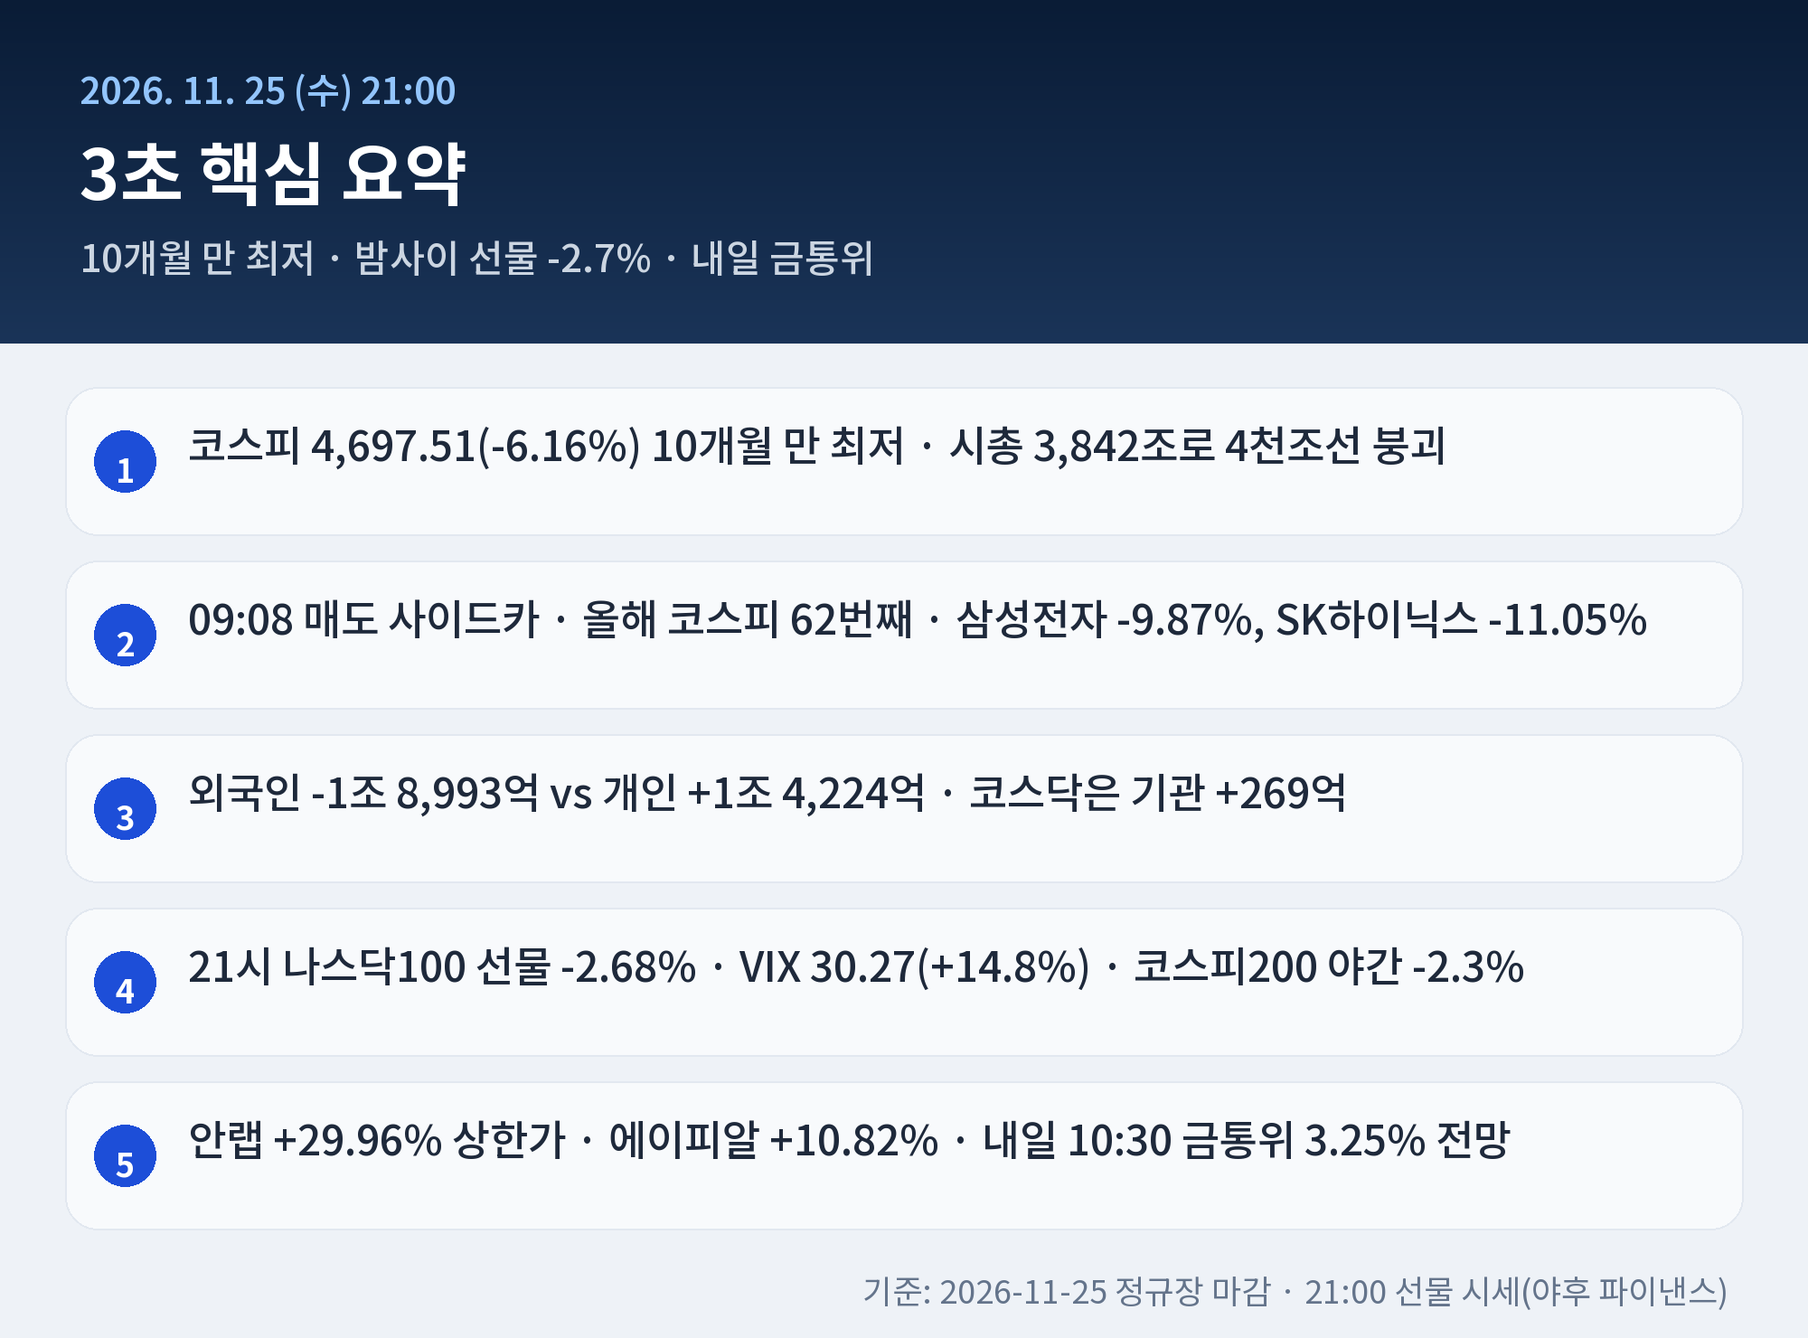
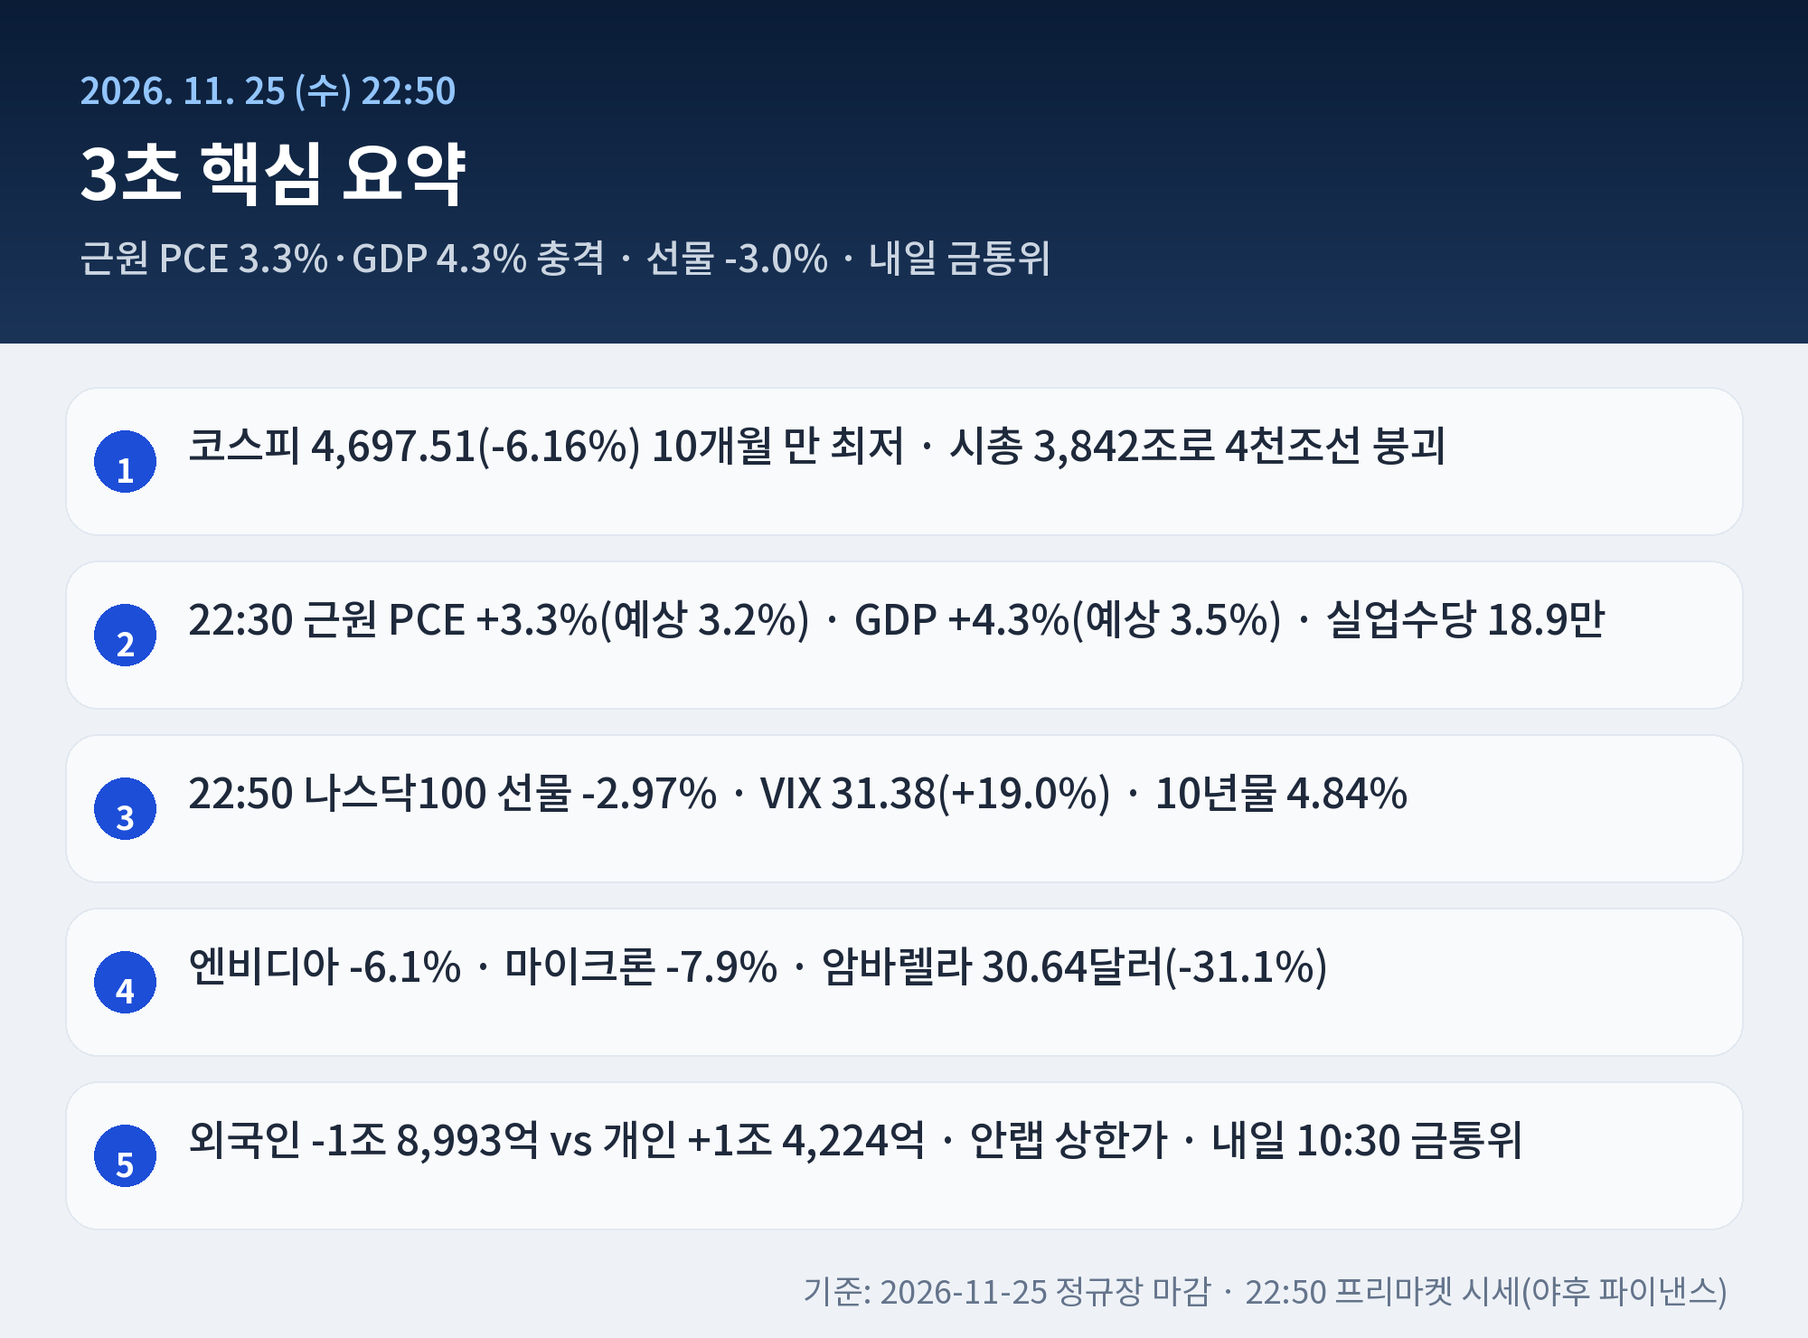
2026-11-25 21:00 최신화 — 근원 PCE·GDP 반영 카드 2종 + 네이버 붙여넣기 페이지

diff --git a/naver-temp/2026-11-25-2100.html b/naver-temp/2026-11-25-2100.html
@@ -1,0 +1,71 @@
+<!DOCTYPE html><html lang="ko"><head><meta charset="utf-8"><meta name="viewport" content="width=device-width, initial-scale=1"><title>코스피 급락 이유 4,697 마감 | 근원 PCE 3.3%·GDP 4.3% 충격, 나스닥 선물 -3.0%</title></head><body style="margin:0; padding:24px 16px; background:#ffffff; font-family:'NanumGothic','나눔고딕','Malgun Gothic',sans-serif;"><div style="max-width:760px; margin:0 auto;"><p style="margin:0 0 20px 0; text-align:center; font-size:15px; line-height:2.0; color:#333333;"><span style="background-color:#fff8b2; font-weight:bold;">장이 끝나고 여섯 시간이 지난 밤에 숫자가 한 번 더 바뀌었어요.</span></p>
+<p style="margin:0 0 20px 0; text-align:center; font-size:15px; line-height:2.0; color:#333333;">오늘 코스피는 4,697.51에서 멈췄고, 22시 30분에 나온 미국 10월 근원 PCE는 예상을 넘었어요.</p>
+<p style="margin:0 0 20px 0; text-align:center; font-size:15px; line-height:2.0; color:#333333;">그 직후 나스닥100 선물은 <b>-3%</b>까지 밀렸고, 프리마켓 반도체는 6~8% 빠졌어요.</p>
+<p style="margin:0 0 26px 0; text-align:center;"><img src="https://raw.githubusercontent.com/Monotony0315/blog-assets/main/2026-11-25/images/20261125-news2100-cover.jpg" width="760" style="max-width:100%; border-radius:10px;" /></p>
+<p style="margin:0 0 20px 0; text-align:center; font-size:15px; line-height:2.0; color:#333333;">하루의 궤적과 22시 30분 지표가 바꾼 것, 그리고 내일 10시 30분 금통위 순서로 정리해볼게요.</p>
+<p style="margin:34px 0 18px 0; text-align:center; font-size:17px; font-weight:bold; color:#1e3a5f;">✅ 3초 핵심 요약</p>
+<p style="margin:0 0 20px 0; text-align:left; font-size:15px; line-height:2.0; color:#333333;">1. 코스피 <span style="background-color:#fff8b2; font-weight:bold;">4,697.51(-6.16%)</span> · 10개월 만 최저, 시총 3,842조로 4천조선 붕괴</p>
+<p style="margin:0 0 20px 0; text-align:left; font-size:15px; line-height:2.0; color:#333333;">2. 09:08 매도 사이드카 · 삼성전자 <b>-9.87%</b> · 외국인 -1조 8,993억 vs 개인 +1조 4,224억</p>
+<p style="margin:0 0 20px 0; text-align:left; font-size:15px; line-height:2.0; color:#333333;">3. 22:30 근원 PCE <span style="background-color:#fdd5f5; font-weight:bold;">+3.3%</span>(예상 3.2%) · GDP +4.3%(예상 3.5%) · 실업수당 18.9만</p>
+<p style="margin:0 0 20px 0; text-align:left; font-size:15px; line-height:2.0; color:#333333;">4. 22:50 나스닥100 선물 <span style="background-color:#bdfbfa; font-weight:bold;">-2.97%</span> · VIX 31.4(+19.0%) · 엔비디아 -6.1%</p>
+<p style="margin:0 0 20px 0; text-align:left; font-size:15px; line-height:2.0; color:#333333;">5. 암바렐라 <span style="background-color:#ffcdc0; font-weight:bold;">-31.1%</span> · 내일 10:30 금통위 3.25% 인상 전망</p>
+<p style="margin:0 0 26px 0; text-align:center;"><img src="https://raw.githubusercontent.com/Monotony0315/blog-assets/main/2026-11-25/images/20261125-news2100-card-summary.png" width="760" style="max-width:100%; border-radius:10px;" /></p>
+<p style="margin:34px 0 18px 0; text-align:center; font-size:17px; font-weight:bold; color:#1e3a5f;">❝ 01 하루를 한 장으로 — 4,809에서 열고 4,672까지</p>
+<p style="margin:0 0 20px 0; text-align:center; font-size:15px; line-height:2.0; color:#333333;">시가 <b>4,809.00</b>이 사실상 그날의 고점이었어요. 09시 08분에 매도 사이드카가 걸렸고, 장중 저점은 4,672.55까지 내려갔어요.</p>
+<p style="margin:0 0 20px 0; text-align:left; font-size:15px; line-height:2.0; color:#333333;">✔ 시가 4,809.00 · 저가 4,672.55 · 종가 <span style="background-color:#fff8b2; font-weight:bold;">4,697.51</span></p>
+<p style="margin:0 0 20px 0; text-align:left; font-size:15px; line-height:2.0; color:#333333;">✔ 코스피 시총 3,842조 9,473억 원 · 삼성전자·SK하이닉스 비중 <b>44.85%</b></p>
+<p style="margin:0 0 20px 0; text-align:left; font-size:15px; line-height:2.0; color:#333333;">✔ 코스닥 650.64(-2.29%) · 원·달러 1,343.0원 · 올해 사이드카 62번</p>
+<p style="margin:0 0 20px 0; text-align:center; font-size:15px; line-height:2.0; color:#333333;">종가 기준으로는 1월 13일(4,692.64) 이후 가장 낮은 자리예요. 같은 시간 대만 증시도 장중 8% 넘게 빠지면서 아시아 반도체가 함께 흔들렸어요.</p>
+<p style="margin:20px 0 26px 0; text-align:center; font-size:15px; font-weight:bold; line-height:1.9; color:#334155;"><span style="background-color:#fff8b2; font-weight:bold;">지수는 제자리로 돌아왔지만 진폭은 오히려 커졌어요.</span> 사이드카가 반복되는 장에서는 방향보다 폭을 먼저 봐요.</p>
+<p style="margin:0 0 26px 0; text-align:center;"><img src="https://raw.githubusercontent.com/Monotony0315/blog-assets/main/2026-11-25/images/20261125-news2100-card-table.png" width="760" style="max-width:100%; border-radius:10px;" /></p>
+<p style="margin:34px 0 18px 0; text-align:center; font-size:17px; font-weight:bold; color:#1e3a5f;">❝ 02 급락 이유 3가지 — 목표가, 자금줄, 그리고 관세</p>
+<p style="margin:0 0 20px 0; text-align:left; font-size:15px; line-height:2.0; color:#333333;">1. <b>메모리 목표가</b> — BNP파리바가 마이크론 목표주가를 <span style="background-color:#fdd5f5; font-weight:bold;">1,700달러에서 775달러</span>로 낮췄어요.</p>
+<p style="margin:0 0 20px 0; text-align:left; font-size:15px; line-height:2.0; color:#333333;">✔ 엔비디아 -5.86% · 마이크론 -11.01% · AMD -8.86% · SOX -7.88%</p>
+<p style="margin:0 0 20px 0; text-align:left; font-size:15px; line-height:2.0; color:#333333;">2. <b>AI 자금줄</b> — 앤트로픽이 81.91달러로 공모가 83달러를 밑돌았고, 코어위브·오라클 CDS 프리미엄이 다시 올랐어요.</p>
+<p style="margin:0 0 20px 0; text-align:left; font-size:15px; line-height:2.0; color:#333333;">3. <b>관세 확정</b> — 22시 19분 USTR이 한국 포함 14개 경제권의 과잉생산 관세를 예고했어요. 한국은 <span style="background-color:#bdfbfa; font-weight:bold;">15% 상한 유지</span>, 중국은 20% 추가로 최대 40%까지 열어뒀어요.</p>
+<p style="margin:0 0 20px 0; text-align:center; font-size:15px; line-height:2.0; color:#333333;">여기에 12월 FOMC 인상 경계까지 겹쳤고, 오늘 밤 지표가 그 무게를 더했어요. 반대편 숫자도 봤어요. 델의 AI 백로그는 <span style="background-color:#c2f4db; font-weight:bold;">1,323억 달러</span>로 사상 최대예요.</p>
+<p style="margin:34px 0 18px 0; text-align:center; font-size:17px; font-weight:bold; color:#1e3a5f;">❝ 03 돈은 어디로 갔나 — 상한가 간 세 갈래</p>
+<p style="margin:0 0 20px 0; text-align:left; font-size:15px; line-height:2.0; color:#333333;">✔ 외국인 <span style="background-color:#ffcdc0; font-weight:bold;">-1조 8,993억</span> · 개인 +1조 4,224억 · 기관 +1억</p>
+<p style="margin:0 0 20px 0; text-align:center; font-size:15px; line-height:2.0; color:#333333;">외국인은 삼성전자를 1조 121억, SK하이닉스를 5,621억 팔았어요. 반대로 코스닥은 기관이 269억 순매수로 방향이 달랐고요.</p>
+<p style="margin:0 0 20px 0; text-align:left; font-size:15px; line-height:2.0; color:#333333;">✔ 안랩 <span style="background-color:#c2f4db; font-weight:bold;">157,900원(+29.96% 상한가)</span> · 파수AI +29.95% · 지니언스 +18.79%</p>
+<p style="margin:0 0 20px 0; text-align:left; font-size:15px; line-height:2.0; color:#333333;">✔ 에이피알 292,000원(+10.82%) · 알테오젠 169,600원(+6.20%) · 삼성바이오로직스 +5.66%</p>
+<p style="margin:0 0 20px 0; text-align:center; font-size:15px; line-height:2.0; color:#333333;">미 CIA·국가정보국 해킹 보도와 저축은행 552명 정보 유출이 보안주를 밀어올렸고, 10월 화장품 수출 57% 증가가 화장품주를 받쳐줬어요. 지수가 빠진 날에도 숫자가 있는 곳에는 돈이 남았어요.</p>
+<p style="margin:34px 0 18px 0; text-align:center; font-size:17px; font-weight:bold; color:#1e3a5f;">❝ 04 22시 30분 지표 — 근원 PCE 3.3%, GDP 4.3%</p>
+<p style="margin:0 0 20px 0; text-align:center; font-size:15px; line-height:2.0; color:#333333;">오늘 하루보다 큰 재료는 장이 끝난 뒤에 나왔어요.</p>
+<p style="margin:0 0 20px 0; text-align:left; font-size:15px; line-height:2.0; color:#333333;">✔ 10월 근원 PCE 전년비 <span style="background-color:#fdd5f5; font-weight:bold;">+3.3%</span>(예상 +3.2%·이전 +3.1%) · 전월비 +0.3%(부합)</p>
+<p style="margin:0 0 20px 0; text-align:left; font-size:15px; line-height:2.0; color:#333333;">✔ 10월 헤드라인 PCE +3.8%(예상 부합) · 3분기 GDP 2차 <span style="background-color:#c2f4db; font-weight:bold;">+4.3%</span>(예상 3.5%·속보 3.4%)</p>
+<p style="margin:0 0 20px 0; text-align:left; font-size:15px; line-height:2.0; color:#333333;">✔ 신규 실업수당 18만 9,000건(예상 20만) · 10월 소비 +0.3% · 소득 +0.7%</p>
+<p style="margin:0 0 20px 0; text-align:center; font-size:15px; line-height:2.0; color:#333333;">성장은 예상을 크게 웃돌고 고용은 타이트한데, 근원 물가가 다시 3.3%로 올라왔어요. 시장이 가장 싫어하는 조합 그대로예요.</p>
+<p style="margin:0 0 20px 0; text-align:center; font-size:15px; line-height:2.0; color:#333333;">다만 전월 대비 근원 PCE는 +0.3%로 예상과 같았어요. 전년 대비 숫자 하나만으로 물가가 다시 가속한다고 단정하기는 이르죠. 다음 지표에서 고용을 지키면서 월간 물가 상승률만 둔화되는 흐름이 가장 이상적이에요.</p>
+<p style="margin:0 0 20px 0; text-align:center; font-size:15px; line-height:2.0; color:#333333;">12월 8~9일 FOMC 25bp 인상은 시장이 사실상 다 반영했고, 미국 10년물은 4.84%까지 올라 다시 5%가 시야에 들어왔어요. 금리가 오르면 부담은 할인율이 큰 반도체와 AI 하드웨어부터 와요.</p>
+<p style="margin:0 0 20px 0; text-align:left; font-size:15px; line-height:2.0; color:#333333;">✔ 실업수당 4주 평균 19만 6,000건 · 연속수당 169만 7,000건 · 저축률 4.1%</p>
+<p style="margin:34px 0 18px 0; text-align:center; font-size:17px; font-weight:bold; color:#1e3a5f;">❝ 05 밤사이 시장 — 선물 -3%, 암바렐라 -31%</p>
+<p style="margin:0 0 20px 0; text-align:left; font-size:15px; line-height:2.0; color:#333333;">✔ 나스닥100 선물 25,495(<b>-2.97%</b>) · S&P500 선물 7,074(-1.98%) · VIX <span style="background-color:#fdd5f5; font-weight:bold;">31.38(+19.0%)</span></p>
+<p style="margin:0 0 20px 0; text-align:left; font-size:15px; line-height:2.0; color:#333333;">✔ 엔비디아 145.90달러(-6.1%) · 마이크론 579.78달러(-7.9%) · AMD 385.31달러(-6.8%) · 앤트로픽 78.03달러(-4.7%)</p>
+<p style="margin:0 0 20px 0; text-align:center; font-size:15px; line-height:2.0; color:#333333;">오늘 밤 가장 센 숫자는 암바렐라였어요. 4분기 가이던스가 7,000만~7,500만 달러로, 직전 분기 1억 1,520만 달러에서 35% 넘게 줄어드는 숫자예요. DRAM 가격 상승과 공급 부족 때문에 고객사들이 주문을 미루거나 취소했고, 모건스탠리는 목표가를 70달러에서 42달러로 깎았어요. 주가는 <span style="background-color:#ffcdc0; font-weight:bold;">30.64달러(-31.1%)</span>예요.</p>
+<p style="margin:0 0 20px 0; text-align:center; font-size:15px; line-height:2.0; color:#333333;">델은 매출 549억 달러(+103%)로 사상 최대를 냈는데도 마진 우려로 6%대 약세이고, HPE는 메모리 부족이 2028년까지 이어진다고 경고했어요. 같은 뉴스가 누구에게는 수익, 누구에게는 원가예요.</p>
+<p style="margin:20px 0 26px 0; text-align:center; font-size:15px; font-weight:bold; line-height:1.9; color:#334155;">선물 -3%, VIX 31.4는 오늘 마감보다 더 나쁜 밤이에요. <span style="background-color:#fff8b2; font-weight:bold;">내일은 지수보다 반도체 수급과 환율</span>에서 먼저 답이 나올 거예요.</p>
+<p style="margin:34px 0 18px 0; text-align:center; font-size:17px; font-weight:bold; color:#1e3a5f;">❝ 06 AI 트렌드 — 서울을 생성하는 모델</p>
+<p style="margin:0 0 20px 0; text-align:left; font-size:15px; line-height:2.0; color:#333333;">✔ 네이버 <b>Seoul World Model</b> — 거리뷰 44만 장 학습, 경로와 날씨를 넣으면 주행 영상이 나와요. 코드는 Apache 2.0이에요.</p>
+<p style="margin:0 0 20px 0; text-align:left; font-size:15px; line-height:2.0; color:#333333;">✔ 구글 딥마인드 Gemini 4 에이전트 팀 — 양자 알고리즘 계산비 <span style="background-color:#bdfbfa; font-weight:bold;">최대 290배 절감</span>과 수학적 검증을 함께 내놨어요.</p>
+<p style="margin:0 0 20px 0; text-align:left; font-size:15px; line-height:2.0; color:#333333;">✔ <b>T3 Code 프라이버시 논란</b> — 텔레메트리 기본 켜짐, 홈페이지의 '텔레메트리 없음' 문구 삭제 지적이에요. 오늘 보안주 상한가와 같은 뿌리예요.</p>
+<p style="margin:34px 0 18px 0; text-align:center; font-size:17px; font-weight:bold; color:#1e3a5f;">❝ 07 내일 체크리스트 — 10시 30분 금통위</p>
+<p style="margin:0 0 20px 0; text-align:left; font-size:15px; line-height:2.0; color:#333333;">✔ 내일 10:30 한은 금통위 <span style="background-color:#fff8b2; font-weight:bold;">3.00% → 3.25% 인상 컨센서스</span> · 11:10 기자간담회 · 13:30 수정 경제전망</p>
+<p style="margin:0 0 20px 0; text-align:left; font-size:15px; line-height:2.0; color:#333333;">✔ 26일 미 추수감사절 휴장 · 27일 조기 폐장(한국 28일 03:00) · 12/3 젠슨 황 상원 청문회</p>
+<p style="margin:0 0 20px 0; text-align:left; font-size:15px; line-height:2.0; color:#333333;">✔ 27일 삼성전자 배당금 지급 — 외국인 역송금이 몰리면 환율이 다시 흔들려요</p>
+<p style="margin:0 0 20px 0; text-align:center; font-size:15px; line-height:2.0; color:#333333;">미국이 물가 때문에 금리를 못 내리는 상황에서 한은이 먼저 올리면 원화는 버티지만, 외국인에게는 매도 이유가 하나 더 생겨요. 내일 10시 30분 결정문과 11시 10분 기자간담회의 '추가 인상' 문구를 먼저 보세요.</p>
+<p style="margin:0 0 20px 0; text-align:center; font-size:15px; line-height:2.0; color:#333333;">반도체 반등 조건은 더 까다로워졌어요. 미국 <span style="background-color:#bdfbfa; font-weight:bold;">2년물 금리가 안정</span>되는 가운데 기업 이익 전망이 유지되면 반등 여건이 열리지만, 금리 상승과 이익 전망 하향이 겹치면 주가에는 이중 부담이 돼요.</p>
+<p style="margin:0 0 20px 0; text-align:center; font-size:15px; line-height:2.0; color:#333333;">오늘 마감표와 22시 30분 지표, 밤사이 선물 숫자까지 제가 직접 대조했어요. 도움이 되셨다면 이웃 추가와 공감 부탁드려요.</p>
+<p style="margin:34px 0 18px 0; text-align:center; font-size:17px; font-weight:bold; color:#1e3a5f;">❞ 참고자료</p>
+<p style="margin:0 0 8px 0; text-align:left; font-size:14px; line-height:1.9;"><a href="https://www.cnbc.com/2026/11/25/pce-inflation-report-october-2026.html" style="color:#2b6cb0; text-decoration:underline;">CNBC — 10월 PCE 3.8%·근원 3.3%로 예상 상회</a></p>
+<p style="margin:0 0 8px 0; text-align:left; font-size:14px; line-height:1.9;"><a href="https://www.bea.gov/news/2026/gdp-second-estimate-and-corporate-profits-3rd-quarter-2026" style="color:#2b6cb0; text-decoration:underline;">BEA — 3분기 GDP 2차 잠정치 +4.3%</a></p>
+<p style="margin:0 0 8px 0; text-align:left; font-size:14px; line-height:1.9;"><a href="https://www.yna.co.kr/view/AKR20261125183900071" style="color:#2b6cb0; text-decoration:underline;">연합뉴스 — 美, 한국 등 14개 경제주체에 과잉생산 관세 예고</a></p>
+<p style="margin:0 0 8px 0; text-align:left; font-size:14px; line-height:1.9;"><a href="https://www.yna.co.kr/view/AKR20261125184200071" style="color:#2b6cb0; text-decoration:underline;">연합뉴스 — USTR "한국·일본·EU 등 관세 15% 상한 유지"</a></p>
+<p style="margin:0 0 8px 0; text-align:left; font-size:14px; line-height:1.9;"><a href="https://www.yna.co.kr/view/AKR20261125066951008" style="color:#2b6cb0; text-decoration:underline;">연합뉴스 — 코스피 6.16% 급락 4,697 마감</a></p>
+<p style="margin:0 0 8px 0; text-align:left; font-size:14px; line-height:1.9;"><a href="https://www.mt.co.kr/stock/2026/11/25/2026112508594474399" style="color:#2b6cb0; text-decoration:underline;">머니투데이 — 17만전자·103만닉스, 미 반도체 급락 여파</a></p>
+<p style="margin:0 0 8px 0; text-align:left; font-size:14px; line-height:1.9;"><a href="https://www.ajunews.com/view/20261125135639369" style="color:#2b6cb0; text-decoration:underline;">아주경제 — CIA 해킹 소식에 보안주 급등, 안랩 상한가</a></p>
+<p style="margin:0 0 8px 0; text-align:left; font-size:14px; line-height:1.9;"><a href="https://investor.ambarella.com/news-releases/news-release-details/ambarella-inc-announces-third-quarter-fiscal-year-2027-financial" style="color:#2b6cb0; text-decoration:underline;">암바렐라 — 2027 회계연도 3분기 실적·4분기 가이던스</a></p>
+<p style="margin:0 0 8px 0; text-align:left; font-size:14px; line-height:1.9;"><a href="https://finance.yahoo.com/markets/stocks/article/dell-stock-tanks-after-blowout-earnings-wall-street-just-isnt-impressed-103036530.html" style="color:#2b6cb0; text-decoration:underline;">Yahoo Finance — 델 사상 최대 실적에도 주가 하락</a></p>
+<p style="margin:0 0 8px 0; text-align:left; font-size:14px; line-height:1.9;"><a href="https://github.com/naver-ai/seoul-world-model" style="color:#2b6cb0; text-decoration:underline;">네이버 Seoul World Model 코드</a></p>
+<p style="margin:0 0 8px 0; text-align:left; font-size:14px; line-height:1.9;"><a href="https://commons.wikimedia.org/wiki/File:Yeouido_view_20240528.jpg" style="color:#2b6cb0; text-decoration:underline;">Wikimedia Commons — 여의도 스카이라인 (CC BY-SA 4.0)</a></p>
+<p style="margin:0 0 9px 0; text-align:left; font-size:15px; line-height:2.0; color:#333333;">#코스피급락이유 #코스피4697 #코스피마감 #매도사이드카 #외국인순매도 #삼성전자 #SK하이닉스 #반도체급락 #마이크론 #미국PCE #근원PCE #미국GDP #금리인상 #12월FOMC #한은금통위 #USTR관세 #과잉생산관세 #나스닥선물 #VIX #암바렐라 #메모리부족 #안랩 #보안주 #에이피알 #알테오젠 #네이버AI #Gemini4 #추수감사절 #AI트렌드 #주식블로그</p></div></body></html>
